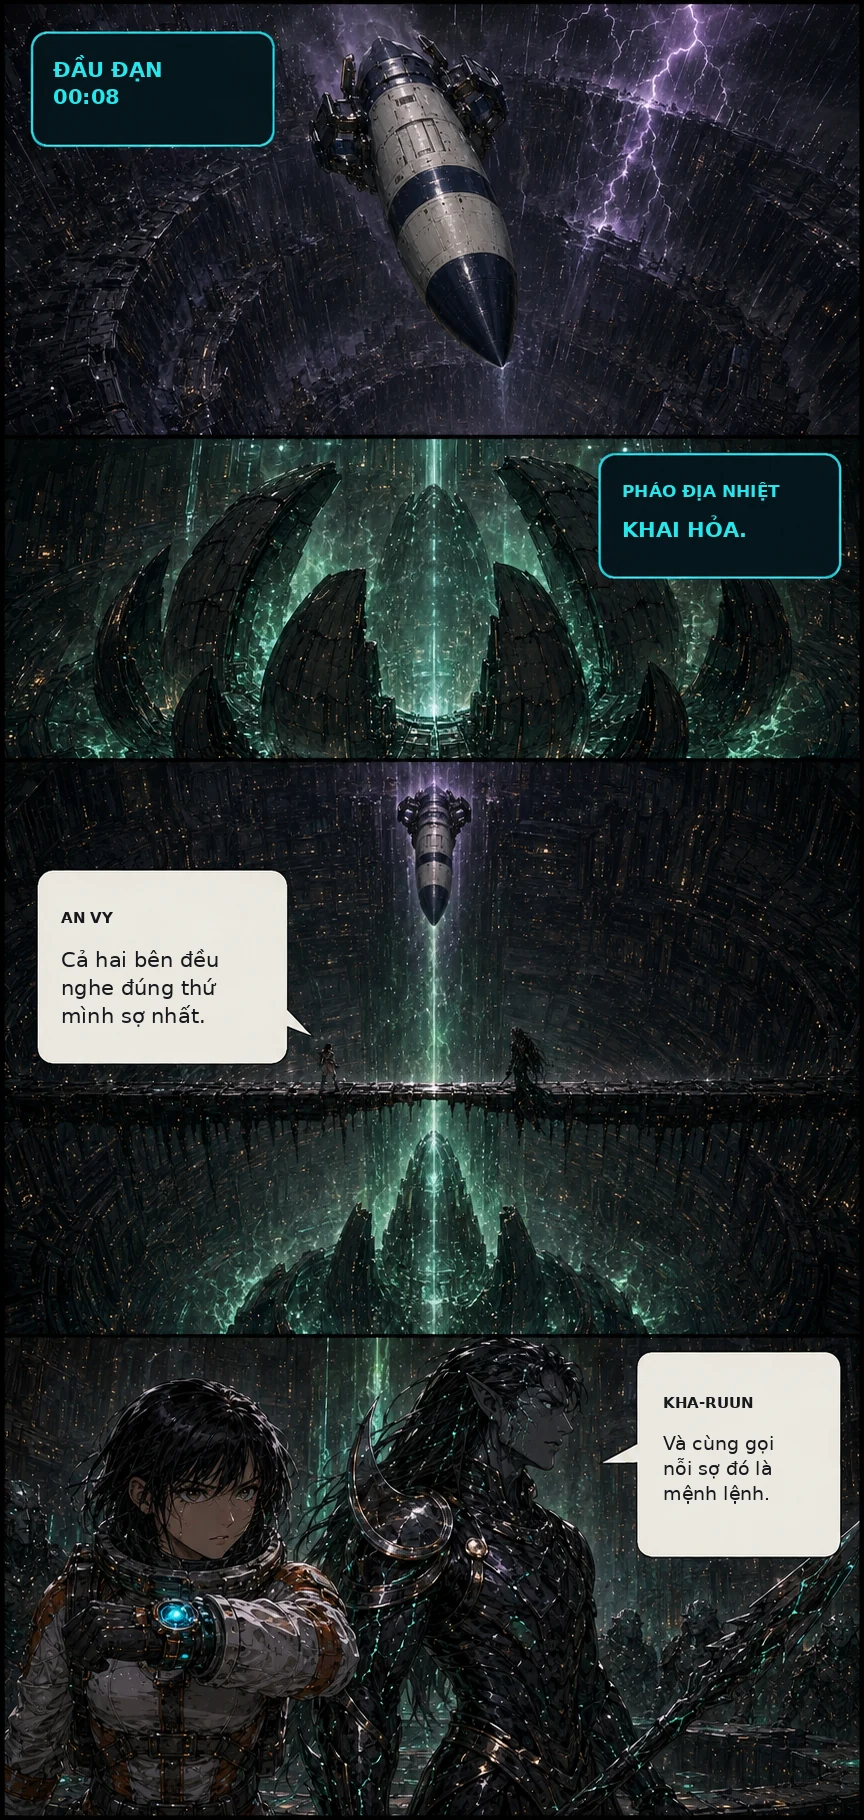
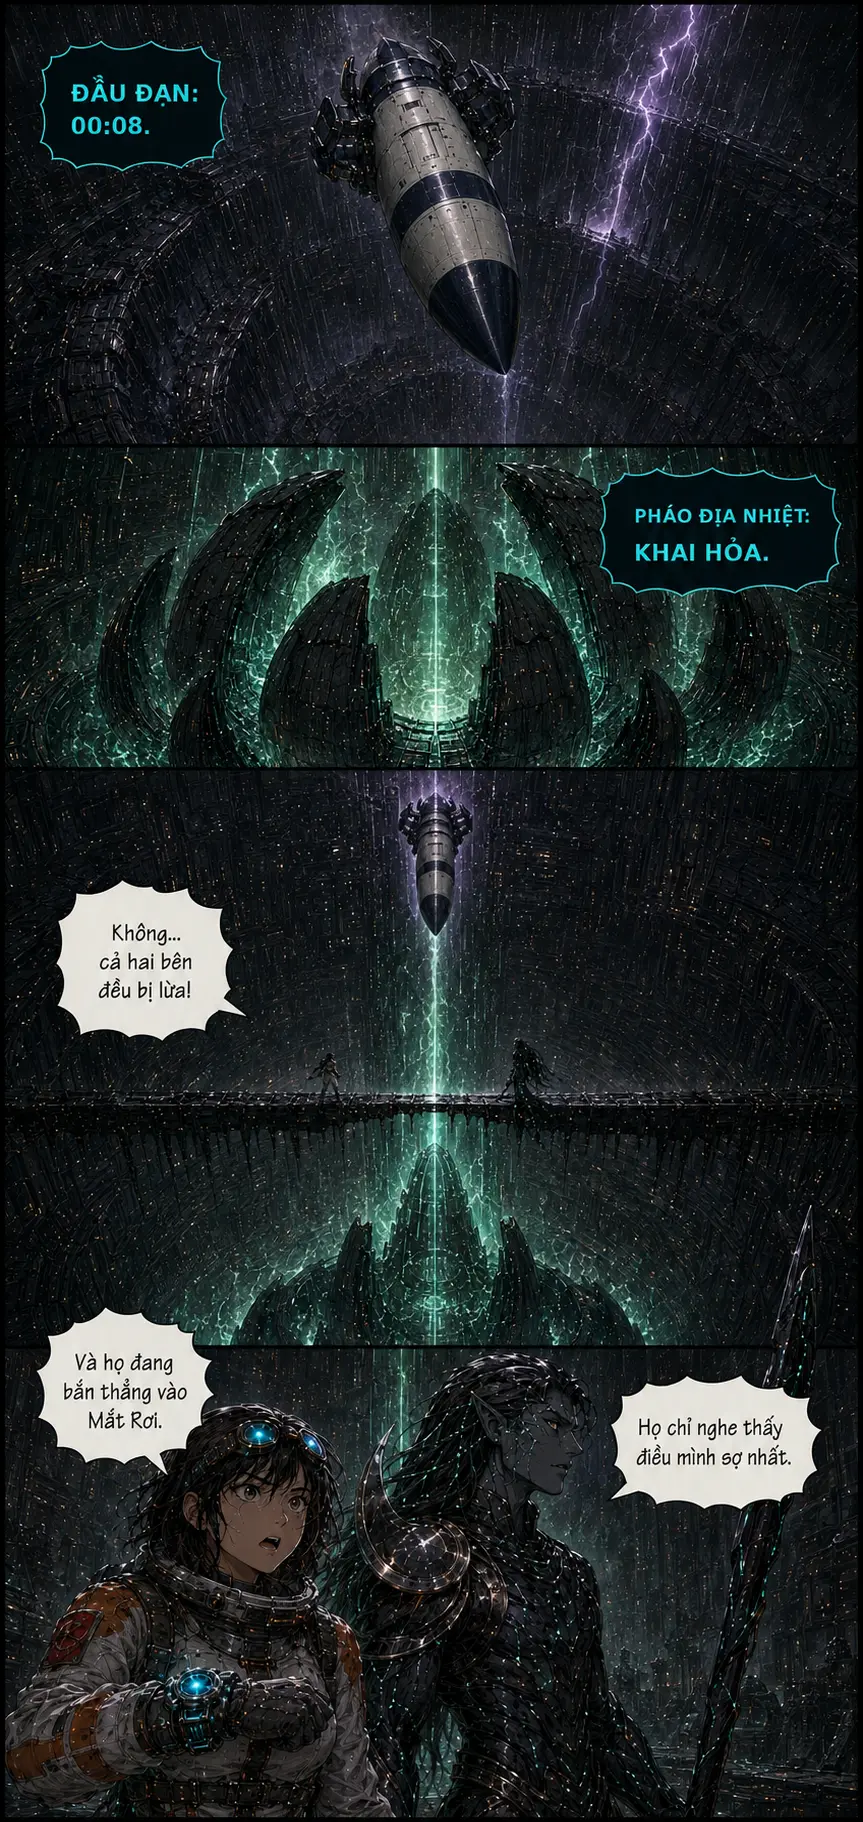
Làm tự nhiên thoại trang 7-8 Vết Thủng 2237

diff --git a/vet-thung-2237/story-data.js b/vet-thung-2237/story-data.js
@@ -9,8 +9,8 @@ const STORY = {
     {number: 4, image: 'assets/pages/page-04.webp?v=dialogue-20260811-p34', title: 'Bầu trời thứ hai', alt: 'Kha-Ruun cứu An Vy trước khi Nham Cung hiện ra'},
     {number: 5, image: 'assets/pages/page-05.webp?v=dialogue-20260811-p56', title: 'Nham Cung báo động', alt: 'Kha-Ruun đứng ra bảo chứng cho An Vy trước Hội Đồng Nham'},
     {number: 6, image: 'assets/pages/page-06.webp?v=dialogue-20260811-p56', title: 'Lệnh xuyên vỏ', alt: 'Chỉ huy Bách chuẩn bị đầu đạn xuyên vỏ sau khi mất tín hiệu An Vy'},
-    {number: 7, image: 'assets/pages/page-07.webp', title: 'Ký ức trong đá', alt: 'An Vy và Kha-Ruun nhìn thấy ký ức Mắt Rơi được phóng khỏi Nham Cung'},
-    {number: 8, image: 'assets/pages/page-08.webp', title: 'Hai phía khai hỏa', alt: 'Đầu đạn bề mặt và pháo địa nhiệt cùng nhắm vào trục xuyên vỏ'},
+    {number: 7, image: 'assets/pages/page-07.webp?v=dialogue-20260811-p78', title: 'Ký ức trong đá', alt: 'An Vy và Kha-Ruun thấy ký ức tổ tiên tộc Nham phóng Mắt Rơi khỏi Trái Đất'},
+    {number: 8, image: 'assets/pages/page-08.webp?v=dialogue-20260811-p78', title: 'Hai phía khai hỏa', alt: 'An Vy và Kha-Ruun phát hiện đầu đạn bề mặt cùng pháo địa nhiệt bị mệnh lệnh giả điều khiển'},
     {number: 9, image: 'assets/pages/page-09.webp', title: 'Mắt mở', alt: 'Mắt Rơi tách vỏ thành một mống mắt cơ khí khổng lồ'},
     {number: 10, image: 'assets/pages/page-10.webp', title: 'Khóa đôi', alt: 'An Vy và Kha-Ruun cùng kích hoạt hai nửa khóa của Mắt Rơi'},
     {number: 11, image: 'assets/pages/page-11.webp', title: 'Một giây ngừng bắn', alt: 'Chỉ huy Bách hủy đầu đạn khi An Vy phát bằng chứng giả mạo'},

diff --git a/vet-thung-2237/index.html b/vet-thung-2237/index.html
@@ -75,7 +75,7 @@
     </nav>
   </section>
 
-  <script src="story-data.js?v=dialogue-20260811-p56"></script>
+  <script src="story-data.js?v=dialogue-20260811-p78"></script>
   <script src="app.js"></script>
 </body>
 </html>

diff --git a/vet-thung-2237/docs/qa-log.md b/vet-thung-2237/docs/qa-log.md
@@ -51,7 +51,16 @@
 - Đã giữ thiết bị cyan trên cổ tay phải An Vy, tạo hình người của Kha-Ruun, sẹo qua lông mày trái của Bách và một đầu đạn chưa phóng.
 - Đã đối chiếu toàn bộ chữ trong ảnh với kịch bản; không phát hiện sai dấu, chữ bị cắt hoặc nhãn tên người nói.
 
+## Audit thoại tự nhiên trang 7–8 — 11/08/2026
+
+- Đã thay mới trang 7 “Ký ức trong đá” và trang 8 “Hai phía khai hỏa” bằng ảnh gen hoàn chỉnh cùng bong bóng thoại tiếng Việt.
+- Trang 7 cho An Vy phản ứng và đặt câu hỏi ngay trong ký ức; Kha-Ruun trả lời bằng lịch sử của chính tộc Nham thay cho đoạn thuyết minh cứng.
+- Trang 8 chuyển phát hiện mệnh lệnh giả thành đối thoại khẩn giữa An Vy và Kha-Ruun khi một đầu đạn cùng pháo địa nhiệt khai hỏa.
+- Đã giữ Mắt Rơi là một thiên thể duy nhất, tạo hình người cao gầy của Kha-Ruun, thiết bị cyan trên cổ tay phải An Vy và bảng màu xanh lục sinh học–hổ phách–tím lạnh–đen núi lửa.
+- Lần dựng đầu trang 7 thiếu câu hỏi thứ hai của An Vy; đã loại bản đó, dựng lại và đối chiếu đủ sáu mục chữ trước khi xuất bản.
+- Đã kiểm tra toàn bộ dấu tiếng Việt, chữ không bị cắt, không có nhãn tên người nói và không có hộp thoại kiểu giao diện.
+
 ## Trạng thái
 
 - Chương 1 hoàn tất: 12/12 trang.
-- Lượt audit tiếp theo tiếp tục làm mềm thoại và thay trang 7–8 theo chuẩn bong bóng thoại mới.
+- Lượt audit tiếp theo tiếp tục làm mềm thoại và thay trang 9–10 theo chuẩn bong bóng thoại mới.

diff --git a/vet-thung-2237/chapters/chuong-01.md b/vet-thung-2237/chapters/chuong-01.md
@@ -51,18 +51,20 @@
 
 ### Trang 7 — Ký ức trong đá
 
-- Hệ cứu hộ: “Dữ liệu cổ đang phục hồi.”
-- Dẫn: “Ký ức. Nham Cung — thời tiền sử.”
-- An Vy: “Thiên thạch này sinh ra từ Trái Đất.”
-- Kha-Ruun: “Không. Nó là đứa con bị lưu đày.”
-- Hệ cứu hộ: “Phát hiện tín hiệu giả mạo từ cả hai quân đội.”
+- Hệ cứu hộ: “Đang khôi phục ký ức...”
+- Dẫn: “Nham Cung — trước lịch sử.”
+- An Vy: “Khoan... nó đang bay lên từ Nham Cung?”
+- Kha-Ruun: “Tổ tiên ta đã đuổi nó khỏi Trái Đất.”
+- An Vy: “Vậy tại sao nó quay về?”
+- Hệ cứu hộ: “Cảnh báo: hai mệnh lệnh giả đang được phát.”
 
 ### Trang 8 — Hai phía khai hỏa
 
-- Hệ thống bề mặt: “Đầu đạn. 00:08.”
-- Hệ thống Nham: “Pháo địa nhiệt. Khai hỏa.”
-- An Vy: “Cả hai bên đều nghe đúng thứ mình sợ nhất.”
-- Kha-Ruun: “Và cùng gọi nỗi sợ đó là mệnh lệnh.”
+- Hệ thống bề mặt: “Đầu đạn: 00:08.”
+- Hệ thống Nham: “Pháo địa nhiệt: khai hỏa.”
+- An Vy: “Không... cả hai bên đều bị lừa!”
+- An Vy: “Và họ đang bắn thẳng vào Mắt Rơi.”
+- Kha-Ruun: “Họ chỉ nghe thấy điều mình sợ nhất.”
 
 ### Trang 9 — Mắt mở
 
